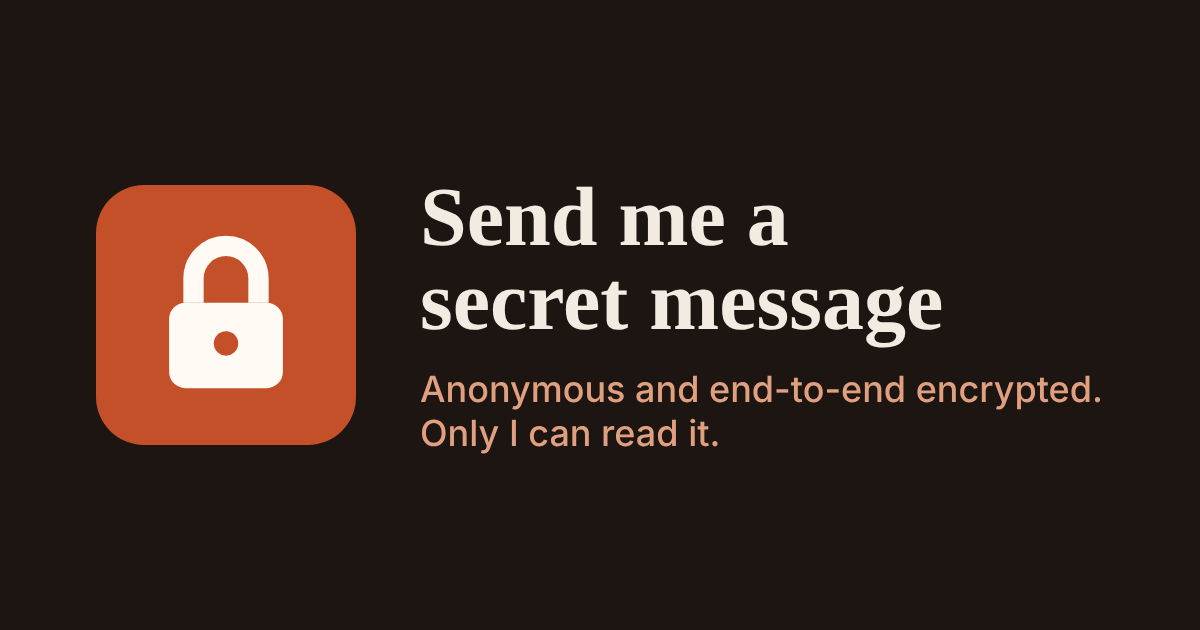
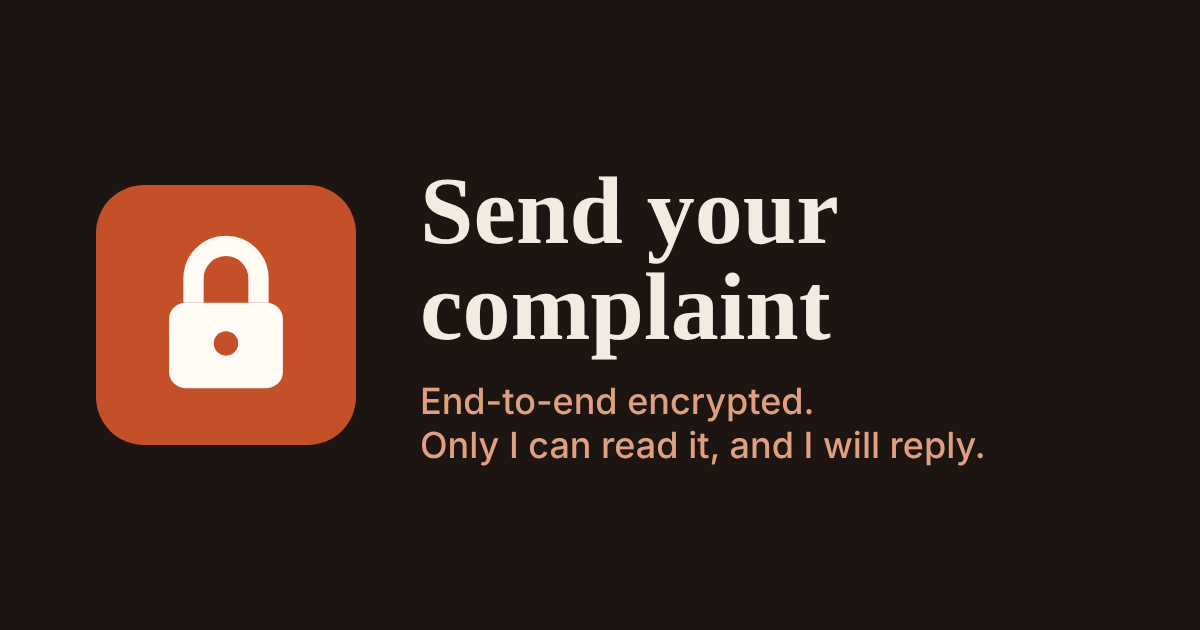
Turn the site into a complaints form with name and phone (#9)
- 'Send me a secret message' becomes 'Send your complaint' across the
  pages, link preview image, app names and notifications
- name and phone number are now required (no longer anonymous); they are
  still encrypted with the complaint, so only the owner sees them
- style tel inputs like the other fields

Claude-Session: https://claude.ai/code/session_01YFvmEDqQeu9hynPKQ4z1ar

Changed region(s): [[0.3392, 0.2714, 0.8017, 0.573], [0.3392, 0.6032, 0.925, 0.754]]

diff --git a/index.html b/index.html
@@ -3,8 +3,8 @@
 <head>
   <meta charset="utf-8">
   <meta name="viewport" content="width=device-width, initial-scale=1">
-  <title>Secret Message</title>
-  <meta name="description" content="Send me an anonymous, end-to-end encrypted message. It is locked on your phone before it is sent, and only I can unlock it.">
+  <title>Send your complaint</title>
+  <meta name="description" content="Send your complaint. It is end-to-end encrypted: locked on your phone before it is sent, and only I can unlock it.">
   <meta name="theme-color" content="#fffaf3" media="(prefers-color-scheme: light)">
   <meta name="theme-color" content="#1c1512" media="(prefers-color-scheme: dark)">
   <meta name="color-scheme" content="light dark">
@@ -12,14 +12,14 @@
 
   <!-- Link previews (WhatsApp, iMessage, X, Facebook…) -->
   <meta property="og:type" content="website">
-  <meta property="og:site_name" content="Secret Message">
-  <meta property="og:title" content="Send me a secret message">
-  <meta property="og:description" content="Anonymous and end-to-end encrypted. Only I can read it.">
+  <meta property="og:site_name" content="Complaints">
+  <meta property="og:title" content="Send your complaint">
+  <meta property="og:description" content="End-to-end encrypted. Only I can read it, and I will reply.">
   <meta property="og:url" content="https://chidiclement82-ctrl.github.io/secret-message/">
   <meta property="og:image" content="https://chidiclement82-ctrl.github.io/secret-message/og-image.png">
   <meta property="og:image:width" content="1200">
   <meta property="og:image:height" content="630">
-  <meta property="og:image:alt" content="A padlock with the words Secret Message, end-to-end encrypted">
+  <meta property="og:image:alt" content="A padlock with the words Send your complaint, end-to-end encrypted">
   <meta name="twitter:card" content="summary_large_image">
 
   <meta name="referrer" content="no-referrer">
@@ -40,26 +40,28 @@
     <header class="brand">
       <img src="favicon.svg" alt="" width="40" height="40">
       <div>
-        <h1>Send me a secret message</h1>
-        <p class="tag">Anonymous and end-to-end encrypted. Only I can read it.</p>
+        <h1>Send your complaint</h1>
+        <p class="tag">End-to-end encrypted. Only I can read it, and I will reply.</p>
       </div>
     </header>
 
     <section id="compose" class="card">
-      <label for="message">Your message</label>
-      <textarea id="message" rows="7" maxlength="4000" placeholder="Say anything…" autocomplete="off"></textarea>
+      <label for="message">Your complaint</label>
+      <textarea id="message" rows="7" maxlength="4000" placeholder="Tell me what happened…" autocomplete="off"></textarea>
       <p class="count"><span id="count">0</span> / 4000</p>
 
-      <label for="from">Your name or contact <span class="optional">(optional)</span></label>
-      <input id="from" type="text" maxlength="200" autocomplete="off" placeholder="Leave empty to stay anonymous">
-      <p class="hint">This is encrypted too. Add it only if you want a reply.</p>
+      <label for="name">Your name</label>
+      <input id="name" type="text" maxlength="100" autocomplete="name" required>
+      <label for="phone">Your phone number</label>
+      <input id="phone" type="tel" maxlength="40" autocomplete="tel" inputmode="tel" required>
+      <p class="hint">Your name and number are encrypted too, so only I can see them.</p>
 
       <button id="send" class="btn" type="button">Encrypt &amp; send</button>
       <p id="send-error" class="error" role="alert" hidden></p>
     </section>
 
     <section id="sent" class="card" hidden>
-      <p class="lede"><strong>Sent ✓</strong> Your message was encrypted on this device before it left. Only I can unlock it.</p>
+      <p class="lede"><strong>Sent ✓</strong> Your complaint was encrypted on this device before it left. Only I can read it.</p>
       <label for="chat-link">Your private link, to read my reply</label>
       <div class="row">
         <input id="chat-link" type="text" readonly>
@@ -68,12 +70,12 @@
       <p class="hint"><strong>Save this link.</strong> It's the only way back to this conversation, and anyone who has it can read it. It's also remembered on this device. Open the conversation to get notified when I reply.</p>
       <div class="row">
         <a id="open-chat" class="btn" href="chat.html">Open conversation</a>
-        <button id="again" class="btn btn-ghost" type="button">Start a new one</button>
+        <button id="again" class="btn btn-ghost" type="button">Send another complaint</button>
       </div>
     </section>
 
     <section id="saved" class="card" hidden>
-      <p class="lede">Your conversations on this device</p>
+      <p class="lede">Your complaints on this device</p>
       <ul id="saved-list" class="saved"></ul>
     </section>
 
@@ -84,11 +86,11 @@
     <details class="card how">
       <summary>How is this private?</summary>
       <ul>
-        <li>Your message is locked on your device before it's sent, using my public key (ECDH P-256 and AES-256-GCM). Only my private key can unlock it.</li>
-        <li>The database only ever stores the locked version. Neither the database company nor anyone who breaks into it can read your message.</li>
+        <li>Your complaint is locked on your device before it's sent, using my public key (ECDH P-256 and AES-256-GCM). Only my private key can unlock it.</li>
+        <li>The database only ever stores the locked version. Neither the database company nor anyone who breaks into it can read your complaint.</li>
         <li>My replies are encrypted with a key only your device and I have. Your private link carries it after the <code>#</code>, which is never sent to any server.</li>
         <li>My private key never leaves my devices unlocked. It's stored locked with my passphrase, which is never sent anywhere.</li>
-        <li>There are no accounts, no tracking and no cookies. Unless you add your name, I can't tell who sent a message.</li>
+        <li>There are no accounts, no tracking and no cookies. Your name and phone number are encrypted along with your complaint.</li>
         <li>Messages are padded so their length doesn't give away what's in them.</li>
       </ul>
     </details>

diff --git a/send.js b/send.js
@@ -1,4 +1,4 @@
-/* Send page: start an encrypted conversation with the owner. See lib.js for
+/* Send page: send a complaint, which starts an encrypted conversation with the owner. See lib.js for
  * the encryption. */
 (function () {
   "use strict";
@@ -53,7 +53,11 @@
 
   $("send").addEventListener("click", async () => {
     const text = message.value;
-    if (!text.trim()) { say($("send-error"), "Write a message first."); return; }
+    const name = $("name").value.trim();
+    const phone = $("phone").value.trim();
+    if (!text.trim()) { say($("send-error"), "Write your complaint first."); return; }
+    if (!name) { say($("send-error"), "Please enter your name."); $("name").focus(); return; }
+    if (!/\d{6,}/.test(phone.replace(/[\s()+.-]/g, ""))) { say($("send-error"), "Please enter a valid phone number."); $("phone").focus(); return; }
     say($("send-error"), "");
     const btn = $("send");
     btn.disabled = true;
@@ -62,7 +66,7 @@
       const { publicKey } = await keyPromise.catch(() => (keyPromise = SM.ownerPublicKey()));
       if (!publicKey) { show($("compose"), false); show($("closed"), true); return; }
       const thread = await SM.newThread();
-      const blob = await SM.sealMessage(thread.key, false, text, $("from").value.trim());
+      const blob = await SM.sealMessage(thread.key, false, text, `${name} · ${phone}`);
       const envelope = await SM.sealEnvelope(publicKey, thread.id, thread.keyBytes);
       btn.textContent = "Sending…";
       await SM.rpc("send_to_thread", { thread_token: thread.token, envelope, blob });
@@ -72,18 +76,19 @@
       $("chat-link").value = link;
       $("open-chat").href = link;
       message.value = "";
-      $("from").value = "";
+      $("name").value = "";
+      $("phone").value = "";
       $("count").textContent = "0";
       show($("compose"), false);
       show($("sent"), true);
       renderSaved();
     } catch (e) {
       say($("send-error"),
-        e.message === "too long" ? "That message is too long. Please shorten it."
+        e.message === "too long" ? "That complaint is too long. Please shorten it."
         : e.code === "offline" ? e.message
         : e.code === "key-mismatch" ? "Something is wrong with this inbox's key, so the message was not sent."
         : /too many/.test(e.message) ? "Lots of messages are arriving right now. Please try again in a minute."
-        : "Couldn't send your message. Please try again.");
+        : "Couldn't send your complaint. Please try again.");
     } finally {
       btn.disabled = false;
       btn.textContent = "Encrypt & send";

diff --git a/chat.html b/chat.html
@@ -3,7 +3,7 @@
 <head>
   <meta charset="utf-8">
   <meta name="viewport" content="width=device-width, initial-scale=1">
-  <title>Conversation — Secret Message</title>
+  <title>Your complaint</title>
   <meta name="robots" content="noindex">
   <meta name="theme-color" content="#fffaf3" media="(prefers-color-scheme: light)">
   <meta name="theme-color" content="#1c1512" media="(prefers-color-scheme: dark)">
@@ -26,7 +26,7 @@
     <header class="brand">
       <img src="favicon.svg" alt="" width="40" height="40">
       <div>
-        <h1>Your conversation</h1>
+        <h1>Your complaint</h1>
         <p class="tag">End-to-end encrypted. Only you and I can read it.</p>
       </div>
     </header>
@@ -59,7 +59,7 @@
       </details>
     </section>
 
-    <p class="foot"><a href="./">Start a new conversation</a></p>
+    <p class="foot"><a href="./">Send another complaint</a></p>
   </main>
 
   <template id="bubble-tpl">

diff --git a/supabase/functions/notify/index.ts b/supabase/functions/notify/index.ts
@@ -52,8 +52,8 @@ Deno.serve(async (req) => {
   // A visitor wrote: tell the owner. The owner replied: tell that visitor.
   const target = from_owner ? thread_id : "owner";
   const message = from_owner
-    ? { title: "New reply", body: "You have a new reply to your secret message.", url: `./?open=${thread_id}`, tag: thread_id }
-    : { title: "New secret message", body: "Someone sent you a message. Open your inbox to read it.", url: "inbox.html", tag: "owner" };
+    ? { title: "New reply", body: "You have a new reply to your complaint.", url: `./?open=${thread_id}`, tag: thread_id }
+    : { title: "New complaint", body: "Someone sent you a complaint. Open your inbox to read it.", url: "inbox.html", tag: "owner" };
 
   const subs: { endpoint: string; p256dh: string; auth: string }[] = await db("_push_targets", { target }) ?? [];
   const results = await Promise.all(subs.map(async (sub) => {

diff --git a/404.html b/404.html
@@ -3,7 +3,7 @@
 <head>
   <meta charset="utf-8">
   <meta name="viewport" content="width=device-width, initial-scale=1">
-  <title>Page not found — Secret Message</title>
+  <title>Page not found — Complaints</title>
   <meta name="robots" content="noindex">
   <meta name="color-scheme" content="light dark">
   <meta http-equiv="Content-Security-Policy" content="default-src 'none'; style-src 'self'; img-src 'self'; base-uri 'none'">
@@ -23,7 +23,7 @@
     </header>
     <section class="card">
       <p class="lede">The link may have been cut off or typed wrong.</p>
-      <a class="btn" href="/secret-message/">Write a secret message</a>
+      <a class="btn" href="/secret-message/">Send a complaint</a>
     </section>
   </main>
 </body>

diff --git a/inbox.js b/inbox.js
@@ -187,7 +187,7 @@
     const li = $("thread-tpl").content.firstElementChild.cloneNode(true);
     if (!t.last_from_owner) li.classList.add("unanswered");
     const named = t.messages.find((m) => !m.from_owner && m.from);
-    li.querySelector(".from").textContent = t.broken ? "Unreadable conversation" : named ? named.from : "Anonymous";
+    li.querySelector(".from").textContent = t.broken ? "Unreadable conversation" : named ? named.from : "No name given";
     li.querySelector(".badge").hidden = t.last_from_owner;
     const time = li.querySelector("time");
     time.dateTime = t.last_at;

diff --git a/sw.js b/sw.js
@@ -3,7 +3,7 @@
 self.addEventListener("push", (event) => {
   let data = {};
   try { data = event.data ? event.data.json() : {}; } catch (_) { /* show the generic one */ }
-  event.waitUntil(self.registration.showNotification(data.title || "Secret Message", {
+  event.waitUntil(self.registration.showNotification(data.title || "Complaints", {
     body: data.body || "You have a new message.",
     icon: "icon-192.png",
     badge: "favicon-32.png",

diff --git a/inbox.html b/inbox.html
@@ -3,7 +3,7 @@
 <head>
   <meta charset="utf-8">
   <meta name="viewport" content="width=device-width, initial-scale=1">
-  <title>Inbox — Secret Message</title>
+  <title>Inbox — Complaints</title>
   <meta name="robots" content="noindex">
   <meta name="theme-color" content="#fffaf3" media="(prefers-color-scheme: light)">
   <meta name="theme-color" content="#1c1512" media="(prefers-color-scheme: dark)">

diff --git a/style.css b/style.css
@@ -63,7 +63,7 @@ label { display: block; font-weight: 600; font-size: 0.92rem; margin: 14px 0 6px
 label:first-child { margin-top: 0; }
 .optional { font-weight: 400; color: var(--ink-soft); }
 
-textarea, input[type="text"], input[type="password"] {
+textarea, input[type="text"], input[type="password"], input[type="tel"] {
   width: 100%;
   font: inherit;
   color: inherit;

diff --git a/README.md b/README.md
@@ -1,6 +1,6 @@
-# Secret Message
+# Complaints
 
-An anonymous, end-to-end encrypted inbox with replies. Anyone can open the site and start a private conversation with the owner. The owner replies from their inbox, and the visitor reads replies with a private link.
+An end-to-end encrypted complaints inbox with replies. Anyone can open the site and send the owner a complaint, with their name and phone number. The owner replies from their inbox, and the sender reads replies with a private link. Only the owner can read complaints, and the name and phone number are encrypted along with them.
 
 - **Send page:** https://chidiclement82-ctrl.github.io/secret-message/ (share this anywhere)
 - **Owner's inbox:** https://chidiclement82-ctrl.github.io/secret-message/inbox.html (not linked from the site; bookmark it)
